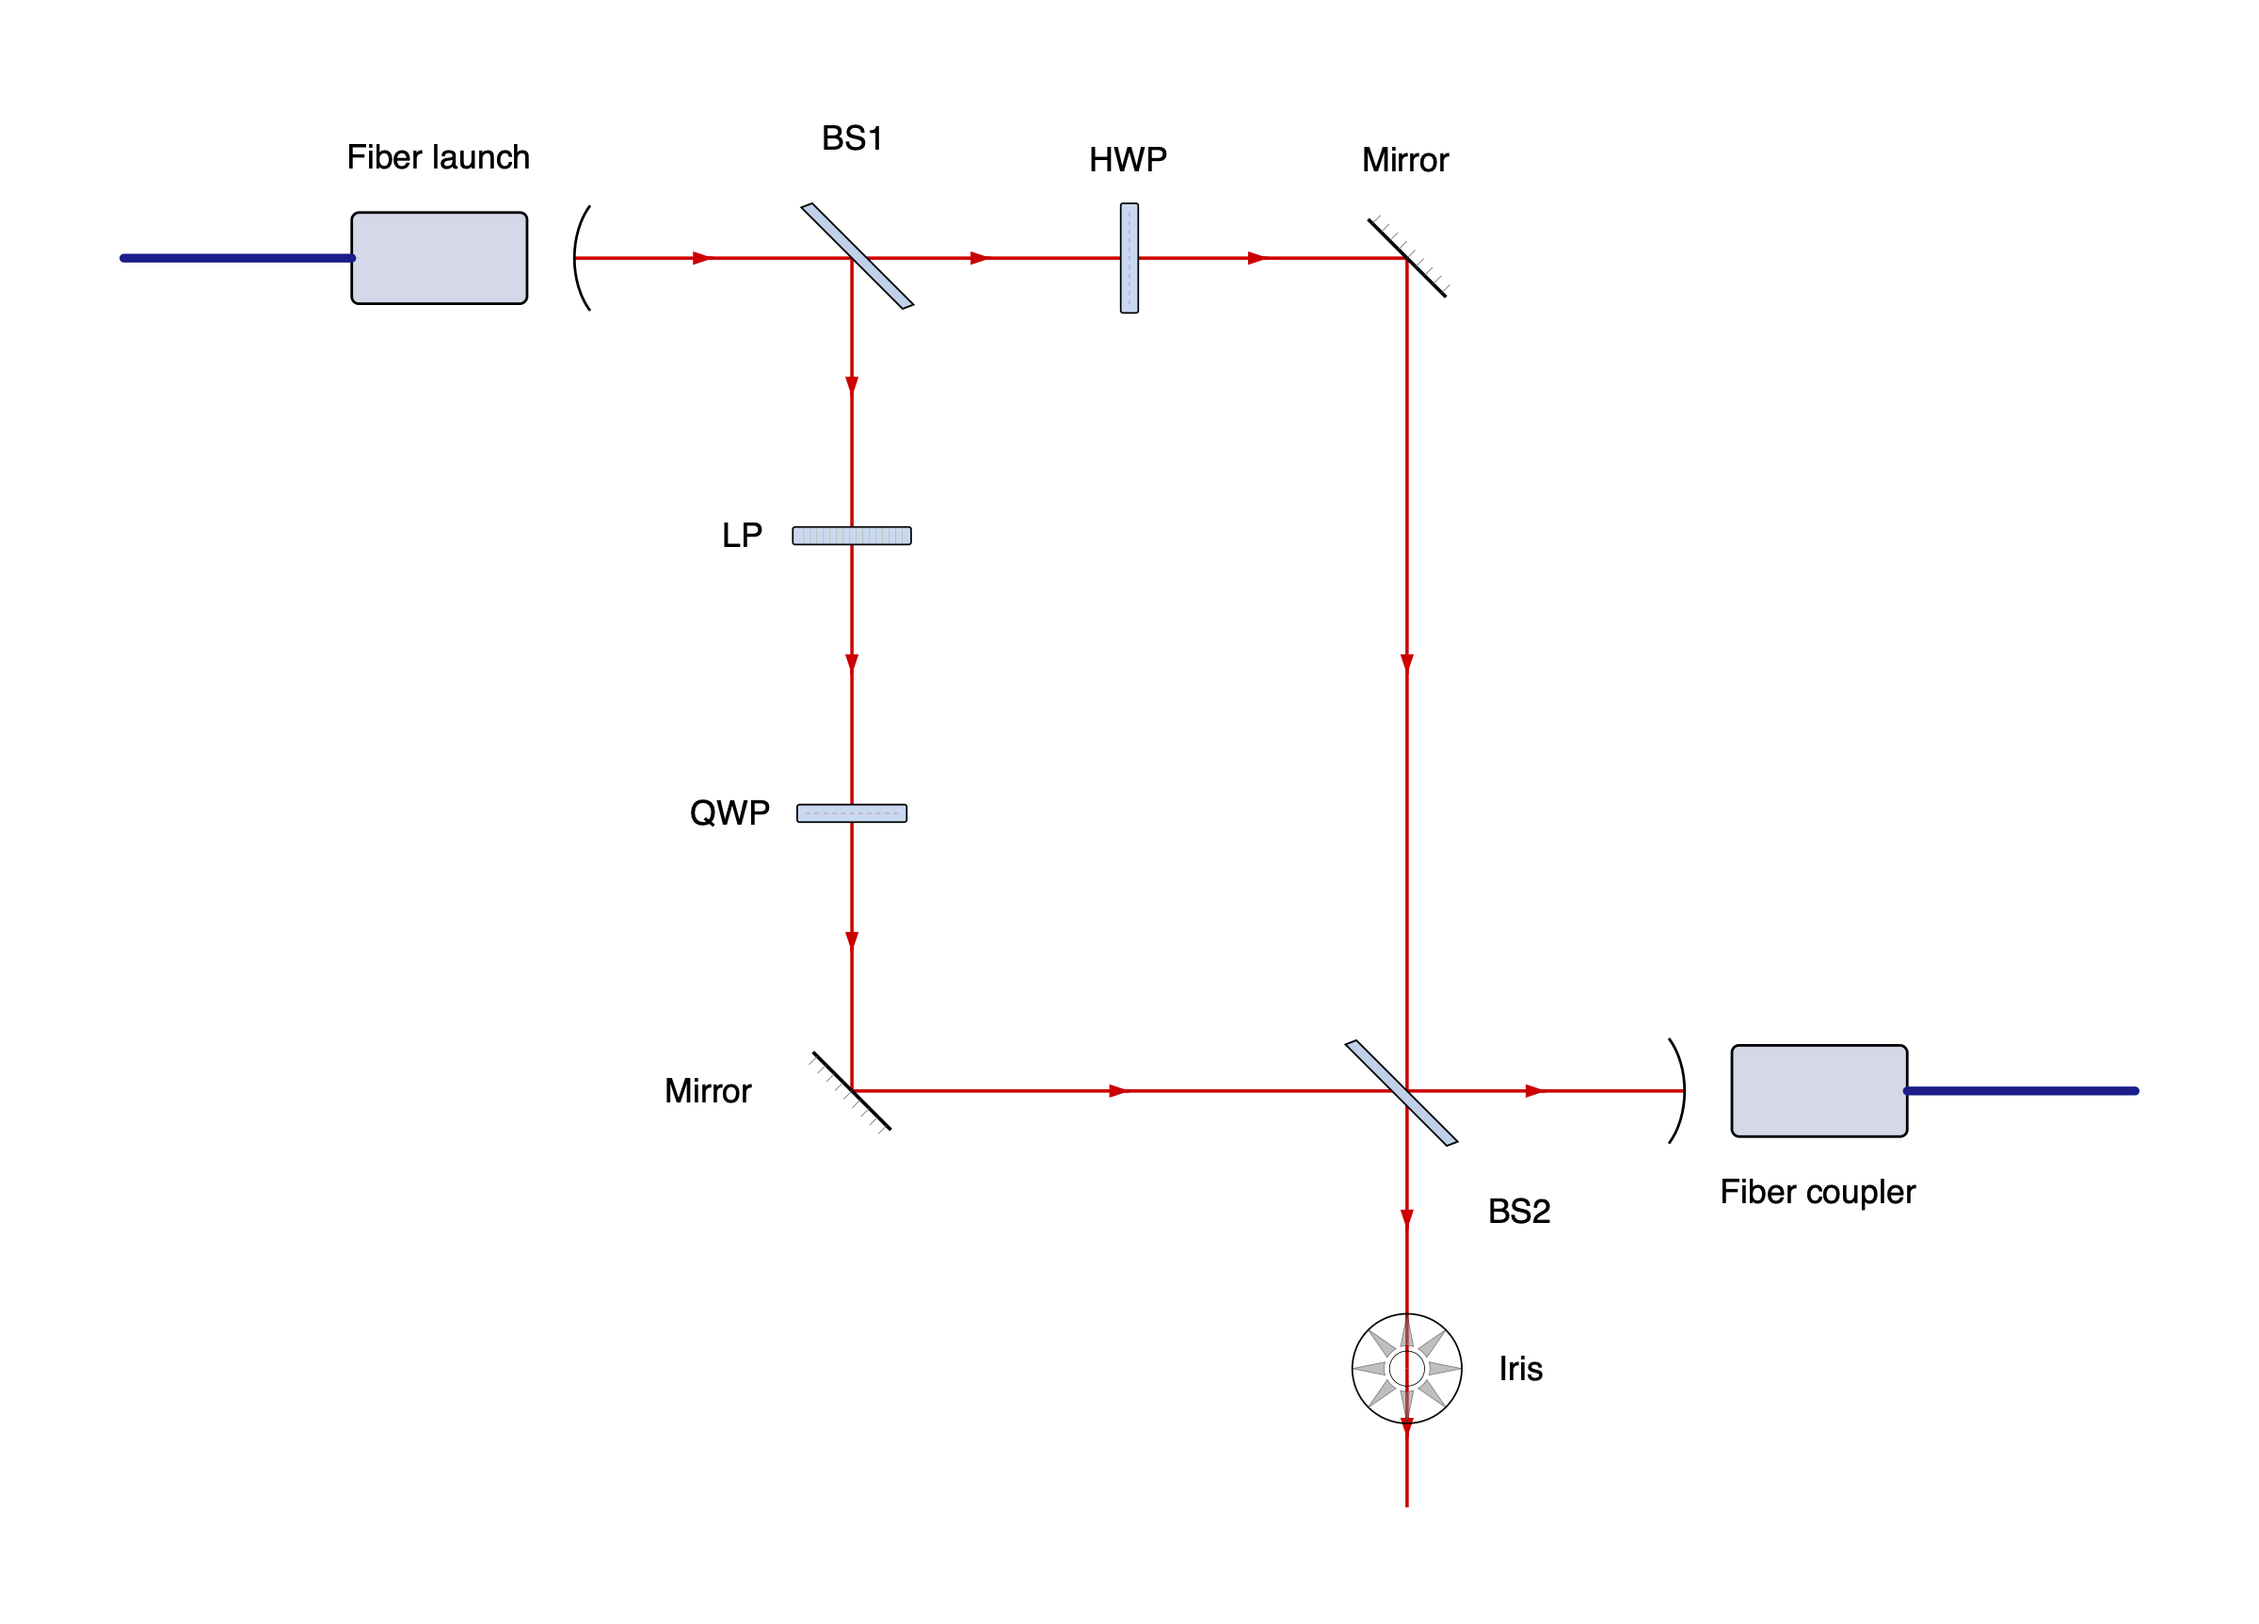
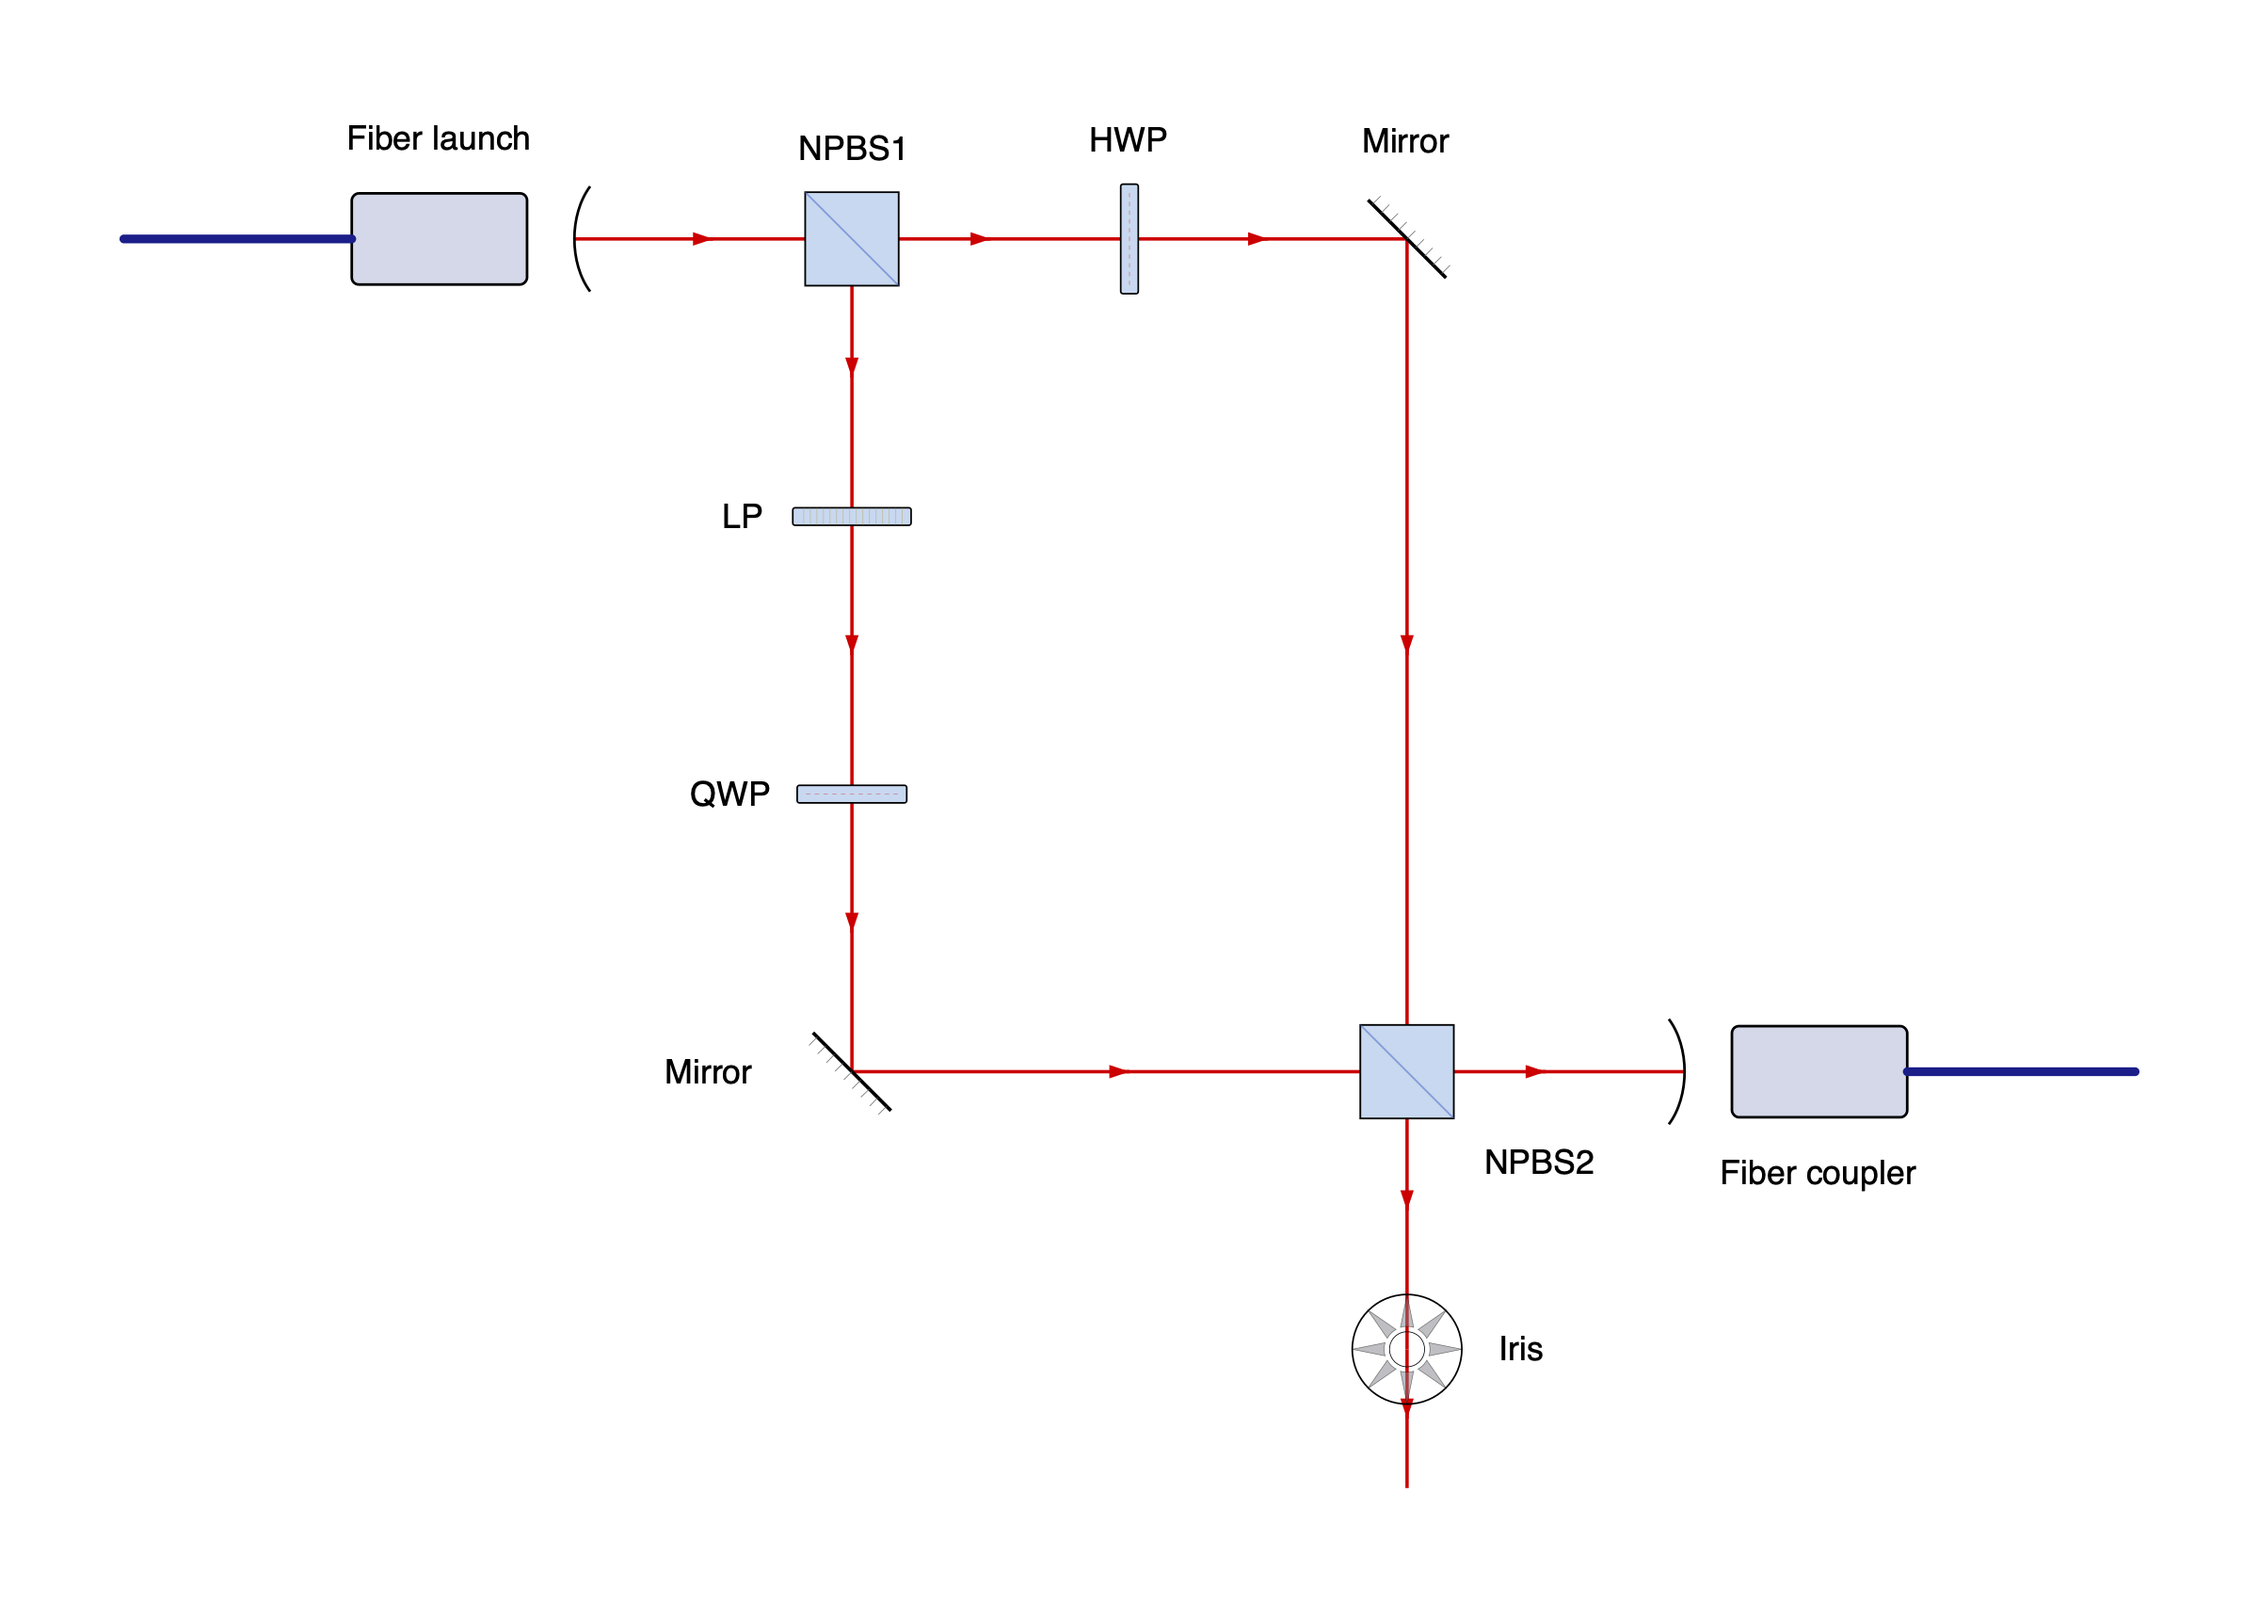
Use PCL NPBS cube artwork and naming throughout examples

diff --git a/tests/test_render.py b/tests/test_render.py
@@ -8,7 +8,7 @@ import xml.etree.ElementTree as ET
 
 import pytest
 
-from beampath import Artwork, ComponentDefinition, ComponentSpec, Geometry, Port, Style, beam, iris, HWP, QWP, mirror
+from beampath import Artwork, ComponentDefinition, ComponentSpec, Geometry, Port, Style, beam, beamsplitter, iris, HWP, QWP, mirror
 from beampath.examples import cage_system, mzi
 from beampath.layout import artwork_point
 from beampath.render import artwork_bytes, render_svg, tag
@@ -44,7 +44,7 @@ def test_each_physical_optic_and_beam_segment_render_once():
     root = ET.fromstring(render_svg(layout))
     groups = root.find(f"{tag('g')}[@id='components']")
     assert len(groups) == len(layout.placements) == 10
-    combined = next(n for n in p.setup.optics if n.spec.label == "BS2")
+    combined = next(n for n in p.setup.optics if n.spec.label == "NPBS2")
     assert len(root.findall(f".//{tag('g')}[@id='{combined.id}']")) == 1
     beams = root.find(f"{tag('g')}[@id='optical-path']")
     assert len(beams.findall(tag("line"))) == 2 * len(layout.segments)
@@ -102,6 +102,23 @@ def test_bundled_primitives_and_provenance_are_retained():
     assert sha256(license_data).hexdigest() == pinned["library"]["license_sha256"]
     for asset in pinned["assets"]:
         assert sha256(resources.files("beampath").joinpath("assets", asset["file"]).read_bytes()).hexdigest() == asset["sha256"]
+
+
+@pytest.mark.parametrize("initial", [0, 90, 180, 270, 31.4])
+@pytest.mark.parametrize("normal", [-45, 45, -32, 12.7])
+def test_npbs_cube_surface_matches_beam_geometry(initial, normal):
+    node = (beam(initial) >> beamsplitter(angle=normal)).end.instance
+    assert node.spec.display_label == "NPBS"
+    assert artwork_point(node, (60, 45)) == pytest.approx((0, 0))
+    a, b = artwork_point(node, (40, 65)), artwork_point(node, (80, 25))
+    assert tuple((a[i] + b[i]) / 2 for i in (0, 1)) == pytest.approx((0, 0))
+    length = math.dist(a, b)
+    tangent = tuple((b[i] - a[i]) / length for i in (0, 1))
+    incoming = (math.cos(math.radians(initial)), math.sin(math.radians(initial)))
+    along_surface = sum(incoming[i] * tangent[i] for i in (0, 1))
+    reflected = tuple(2 * along_surface * tangent[i] - incoming[i] for i in (0, 1))
+    outgoing = math.radians(node.heading + node.port("reflect").direction)
+    assert (math.cos(outgoing), math.sin(outgoing)) == pytest.approx(reflected)
 
 
 def test_fiber_role_orientation_and_mirror_backing():

diff --git a/src/beampath/components.py b/src/beampath/components.py
@@ -38,9 +38,10 @@ def _selector(*, remove_axes=False):
     return keep
 
 
-def _art(filename, upstream_path, center, bounds, scale, *, remove_axes=False):
+def _art(filename, upstream_path, center, bounds, scale, *, remove_axes=False, source_filename=None):
+    source_filename = source_filename or filename
     return Artwork(center, bounds, scale, package_resource=filename,
-                   source_url=f"https://raw.githubusercontent.com/itgall/photonics-component-library/{REVISION}/{upstream_path}/{filename}",
+                   source_url=f"https://raw.githubusercontent.com/itgall/photonics-component-library/{REVISION}/{upstream_path}/{source_filename}",
                    attribution=ATTRIBUTION, license_url=LICENSE_URL,
                    selector=_selector(remove_axes=remove_axes))
 
@@ -112,8 +113,8 @@ def _splitter(parameters):
     reflected = reflection(0, angle)
     if aligned(reflected, 0) or aligned(reflected, 180):
         raise ComponentError("Beamsplitter angle must give four distinct physical ports")
-    # Anchor is the midpoint of the upstream plate face (52,12)..(77,68).
-    source_normal = math.degrees(math.atan2(56, 25)) - 90
+    # The cube's splitting diagonal (40,65)..(80,25) has a 45-degree normal.
+    source_normal = 45
     return Geometry((Port("primary", "input"),
                      Port("secondary", "input", reflected, required=False),
                      Port("straight", "output"), Port("reflect", "output", reflected)),
@@ -143,9 +144,9 @@ for name in ("HWP", "QWP"):
         name, name, _art(f"fs-{name.lower()}.svg", "free-space-optics/flat_2d/svg/17_waveplates",
                         (54, 35), (49, 9, 59, 61), 1.5), _straight))
 register_component(ComponentDefinition(
-    "beamsplitter", "BS",
-    _art("fs-bs-plate.svg", "free-space-optics/flat_2d/svg/15_nonpolarizing",
-         (64.5, 40), (51, 11, 83, 69), 1.6),
+    "beamsplitter", "NPBS",
+    _art("fs-npbs-cube.svg", "free-space-optics/flat_2d/svg/15_nonpolarizing",
+         (60, 45), (39, 24, 81, 66), 1.6, source_filename="fs-bs-cube.svg"),
     _splitter, default_input="primary"))
 
 
@@ -165,6 +166,7 @@ def mirror(label: str | None = None, *, angle: float | None = None,
 
 
 def beamsplitter(label: str | None = None, *, angle: float):
+    """A non-polarizing cube beamsplitter, labeled NPBS by default."""
     return component("beamsplitter", label, angle=angle)
 
 

diff --git a/tests/test_layout.py b/tests/test_layout.py
@@ -149,12 +149,12 @@ def test_multiline_label_bounds_cover_longest_line_and_all_rows(direction, font_
 def test_unequal_mzi_closes_shared_optic_by_stretching():
     p = mzi()
     result = p.layout()
-    combined = next(o for o in result.placements.values() if o.instance.spec.label == "BS2")
+    combined = next(o for o in result.placements.values() if o.instance.spec.label == "NPBS2")
     incident = [s for s in result.segments if s.source is not None and s.target == combined.id]
     assert sorted(s.length for s in incident) == pytest.approx([380, 570])
     assert all(s.end == pytest.approx(combined.position) for s in incident)
     assert combined.position == pytest.approx((570, 570))
-    assert len([o for o in result.placements.values() if o.instance.spec.label == "BS2"]) == 1
+    assert len([o for o in result.placements.values() if o.instance.spec.label == "NPBS2"]) == 1
     assert len([s for s in result.segments if s.source == combined.id]) == 2
     assert p.layout() == result
 

diff --git a/tests/test_graph.py b/tests/test_graph.py
@@ -10,10 +10,10 @@ from beampath import (
 
 
 def mzi():
-    split = fiber_launch() >> beamsplitter("BS1", angle=-45)
+    split = fiber_launch() >> beamsplitter("NPBS1", angle=-45)
     a = split.straight() >> HWP() >> mirror(angle=-45)
     b = split.reflect() >> LP() >> QWP() >> mirror(angle=45)
-    combined = a.join(b, beamsplitter("BS2", angle=45))
+    combined = a.join(b, beamsplitter("NPBS2", angle=45))
     return split, a, b, combined
 
 
@@ -24,7 +24,7 @@ def test_mzi_graph_and_mutable_cursors():
     assert a.end.instance.heading == 0
     assert b.end.instance.heading == 90
     assert combined.end.instance.heading == 90
-    assert sum(n.spec.label == "BS2" for n in split.setup.optics) == 1
+    assert sum(n.spec.label == "NPBS2" for n in split.setup.optics) == 1
     assert combined.reflect().setup is split.setup
     with pytest.raises(ConnectionError, match="consumed"):
         a >> iris()

diff --git a/examples/shared_optic.py b/examples/shared_optic.py
@@ -8,14 +8,14 @@ from beampath.examples import run_example
 def build():
     """Connect the secondary input first, then the primary input."""
     # README:BEGIN
-    split = fiber_launch() >> beamsplitter("BS1", angle=-45)
+    split = fiber_launch() >> beamsplitter("NPBS1", angle=-45)
     a = split.straight() >> HWP() >> mirror(heading="south")
     b = split.reflect() >> LP() >> QWP() >> mirror(heading="east")
-    bs2 = split.setup.add(beamsplitter("BS2", angle=+45))
-    b.connect(bs2.input("secondary"))
-    a.connect(bs2.input("primary"))
-    bs2.reflect() >> fiber_launch(role="couple")
-    bs2.straight() >> iris()
+    npbs2 = split.setup.add(beamsplitter("NPBS2", angle=+45))
+    b.connect(npbs2.input("secondary"))
+    a.connect(npbs2.input("primary"))
+    npbs2.reflect() >> fiber_launch(role="couple")
+    npbs2.straight() >> iris()
     # README:END
     return split
 

diff --git a/examples/mzi.py b/examples/mzi.py
@@ -8,10 +8,10 @@ from beampath.examples._export import run_example
 def build():
     """Split two arms and recombine them with join()."""
     # README:BEGIN
-    split = fiber_launch() >> beamsplitter("BS1", angle=-45)
+    split = fiber_launch() >> beamsplitter("NPBS1", angle=-45)
     a = split.straight() >> HWP() >> mirror(heading="south")
     b = split.reflect() >> LP() >> QWP() >> mirror(heading="east")
-    combined = a.join(b, beamsplitter("BS2", angle=+45))
+    combined = a.join(b, beamsplitter("NPBS2", angle=+45))
     combined.reflect() >> fiber_launch(role="couple")
     combined.straight() >> iris()
     # README:END

diff --git a/README.md b/README.md
@@ -92,6 +92,7 @@ quarter-wave plate. Labels default to component names; `label=""` hides one.
 Use `\n` for line breaks, such as `HWP("HWP\nIn Rotation Mount")`;
 each line is center-aligned.
 Waveplates display only their label, with no additional annotations.
+The non-polarizing cube beamsplitter defaults to the label `NPBS`.
 A fiber launch's `role` controls its orientation; `role="couple"` ends the
 free-space path.
 
@@ -104,17 +105,17 @@ beamsplitter:
 ```python
 from beampath.components import *
 
-split = fiber_launch() >> beamsplitter("BS1", angle=-45)
+split = fiber_launch() >> beamsplitter("NPBS1", angle=-45)
 a = split.straight() >> HWP() >> mirror(heading="south")
 b = split.reflect() >> LP() >> QWP() >> mirror(heading="east")
-combined = a.join(b, beamsplitter("BS2", angle=+45))
+combined = a.join(b, beamsplitter("NPBS2", angle=+45))
 combined.reflect() >> fiber_launch(role="couple")
 combined.straight() >> iris()
 split.save("mzi.svg")
 ```
 <!-- README:END mzi -->
 
-![Mach–Zehnder interferometer with two arms sharing beamsplitters BS1 and BS2](examples/images/mzi.png)
+![Mach–Zehnder interferometer with two arms sharing beamsplitters NPBS1 and NPBS2](examples/images/mzi.png)
 
 Runnable example: [mzi.py](examples/mzi.py).
 
@@ -139,19 +140,19 @@ The same MZI can connect a shared instance explicitly, in either input order:
 ```python
 from beampath.components import *
 
-split = fiber_launch() >> beamsplitter("BS1", angle=-45)
+split = fiber_launch() >> beamsplitter("NPBS1", angle=-45)
 a = split.straight() >> HWP() >> mirror(heading="south")
 b = split.reflect() >> LP() >> QWP() >> mirror(heading="east")
-bs2 = split.setup.add(beamsplitter("BS2", angle=+45))
-b.connect(bs2.input("secondary"))
-a.connect(bs2.input("primary"))
-bs2.reflect() >> fiber_launch(role="couple")
-bs2.straight() >> iris()
+npbs2 = split.setup.add(beamsplitter("NPBS2", angle=+45))
+b.connect(npbs2.input("secondary"))
+a.connect(npbs2.input("primary"))
+npbs2.reflect() >> fiber_launch(role="couple")
+npbs2.straight() >> iris()
 split.save("shared_optic.svg")
 ```
 <!-- README:END shared_optic -->
 
-![The MZI with both arms connected explicitly to the inputs of shared beamsplitter BS2](examples/images/shared_optic.png)
+![The MZI with both arms connected explicitly to the inputs of shared beamsplitter NPBS2](examples/images/shared_optic.png)
 
 Runnable example: [shared_optic.py](examples/shared_optic.py).
 
